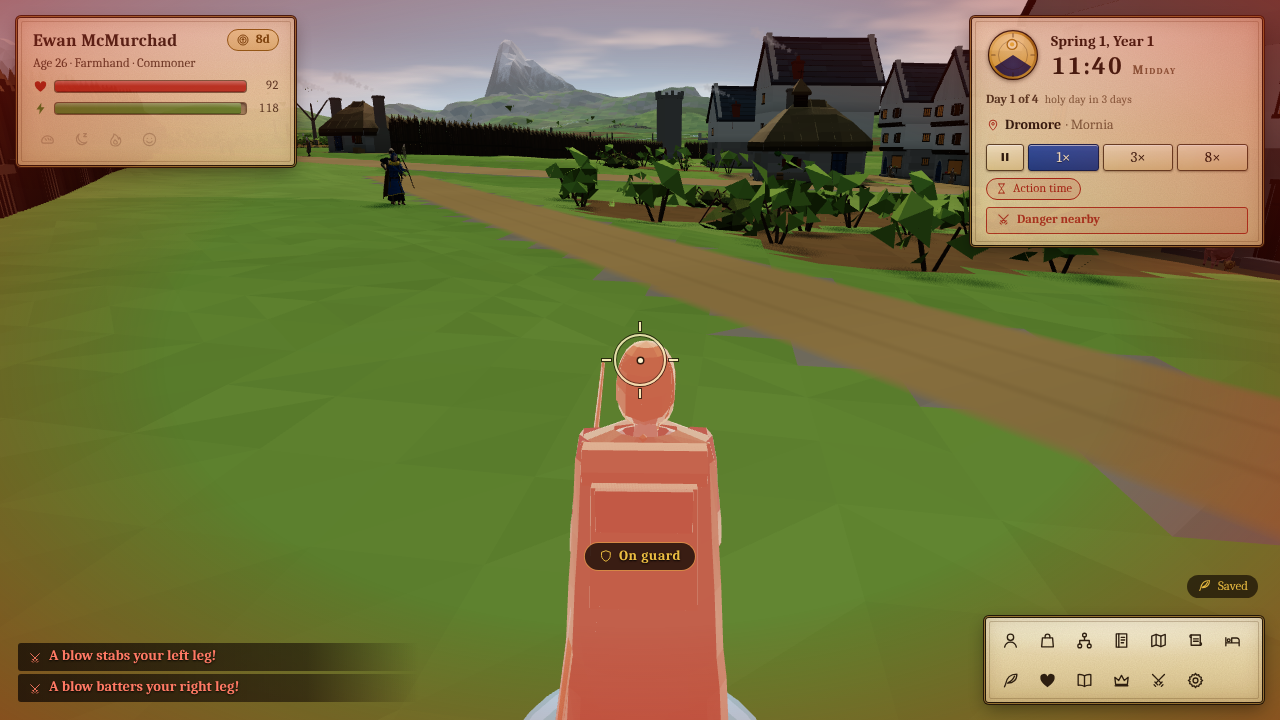
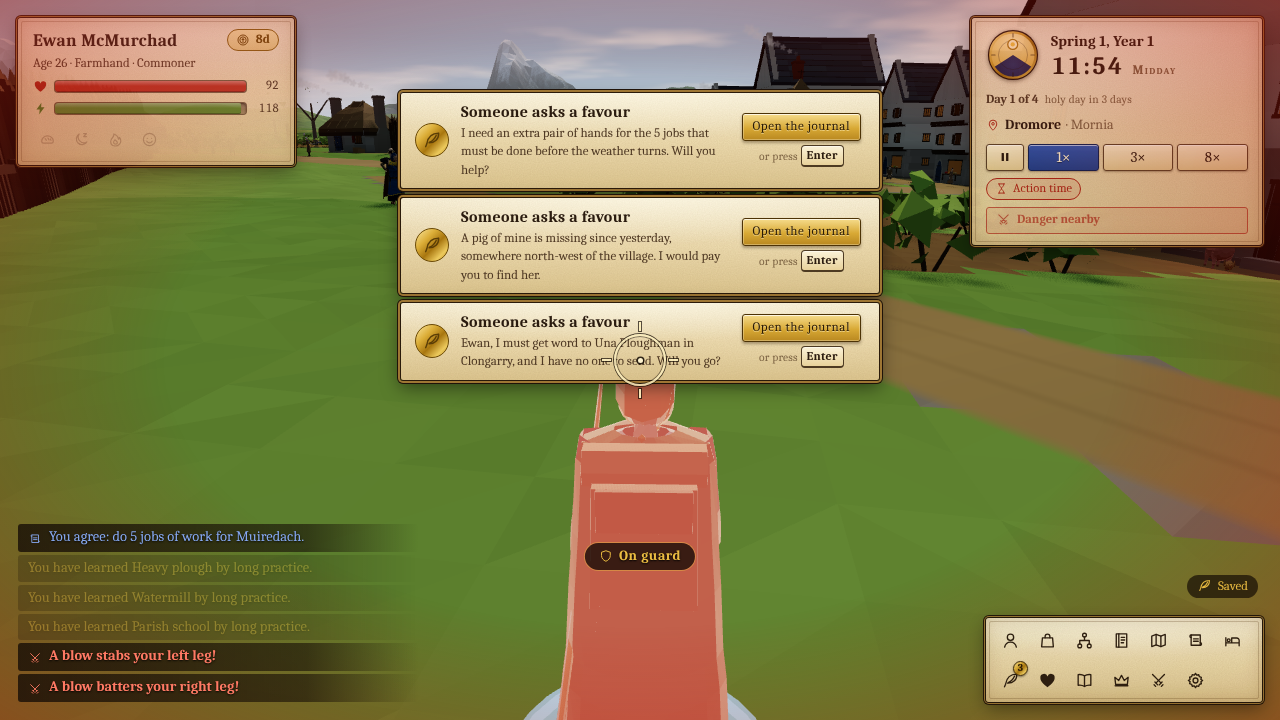
game-shots: market day, hints switch, requests and politics scenes; notices name the asker

diff --git a/src/ui/core/notices.ts b/src/ui/core/notices.ts
@@ -13,6 +13,9 @@ export interface NoticeCtx {
   houseConcerns(house: number): boolean;
   houseName(house: number): string;
   placeName(settlement: number): string;
+  personName(person: number): string;
+  /** Steel is out: favours can wait (the dock still shows the dot). */
+  inFight(): boolean;
   /** Which page a `request` event belongs on: the journal (a villager), the letters (a House) or the petitions (a tenant). */
   requestPage(e: SimEvents['request']): 'journal' | 'letters' | 'petitions' | null;
 }
@@ -21,9 +24,10 @@ const politics = (tab: string): PanelRequest => ({ panel: 'ext', name: 'politics
 
 export function noticeForRequest(e: SimEvents['request'], ctx: NoticeCtx): ToastInput | null {
   const page = ctx.requestPage(e);
-  if (!page) return null;
+  if (!page || ctx.inFight()) return null;
   if (page === 'journal') {
-    return { tone: 'gold', icon: 'quill', title: 'Someone asks a favour', text: e.text, ttl: 12, key: `req:${e.id}`, action: { label: 'Open the journal', request: { panel: 'ext', name: 'requests' } } };
+    // one notice at a time for favours: a newer one replaces an older one that is still showing
+    return { tone: 'gold', icon: 'quill', title: `${ctx.personName(e.from)} asks a favour`, text: e.text, ttl: 12, key: 'journal-request', action: { label: 'Open the journal', request: { panel: 'ext', name: 'requests' } } };
   }
   if (page === 'letters') {
     return { tone: 'gold', icon: 'scroll', title: 'A letter has come', text: e.text, ttl: 14, key: `letter:${e.id}`, action: { label: 'Read the letters', request: politics('standing') } };

diff --git a/tests/ui/wave4.test.ts b/tests/ui/wave4.test.ts
@@ -76,6 +76,8 @@ const ctx = (over: Partial<NoticeCtx> = {}): NoticeCtx => ({
   houseConcerns: (h) => h === 1,
   houseName: (h) => `H${h}`,
   placeName: (s) => `Place${s}`,
+  personName: (p) => `Person${p}`,
+  inFight: () => false,
   requestPage: () => 'journal',
   ...over,
 });
@@ -87,6 +89,8 @@ describe('notices', () => {
     expect(noticeForRequest(e, ctx({ requestPage: () => 'letters' }))!.action!.request).toEqual({ panel: 'ext', name: 'politics', data: { tab: 'standing' } });
     expect(noticeForRequest(e, ctx({ requestPage: () => 'petitions' }))!.action!.request).toEqual({ panel: 'ext', name: 'politics', data: { tab: 'petitions' } });
     expect(noticeForRequest(e, ctx({ requestPage: () => null }))).toBeNull();
+    expect(noticeForRequest(e, ctx())!.title).toBe('Person9 asks a favour');
+    expect(noticeForRequest(e, ctx({ inFight: () => true }))).toBeNull();
   });
 
   it('tells of wars that concern the player and opens the wars page', () => {

diff --git a/src/ui/app/ui.ts b/src/ui/app/ui.ts
@@ -437,6 +437,8 @@ export class UiApp implements GameUIExt {
       homeSettlement: me()?.settlement ?? 0,
       houseName: (id) => sim.state.houses.get(id)?.name ?? 'unknown',
       placeName: (id) => this.placeName(id),
+      personName: (id) => this.nameOf(id),
+      inFight: () => !!g.player.hud()?.combat?.engaged,
       houseConcerns: (id) => {
         const p = me();
         if (!p) return false;
